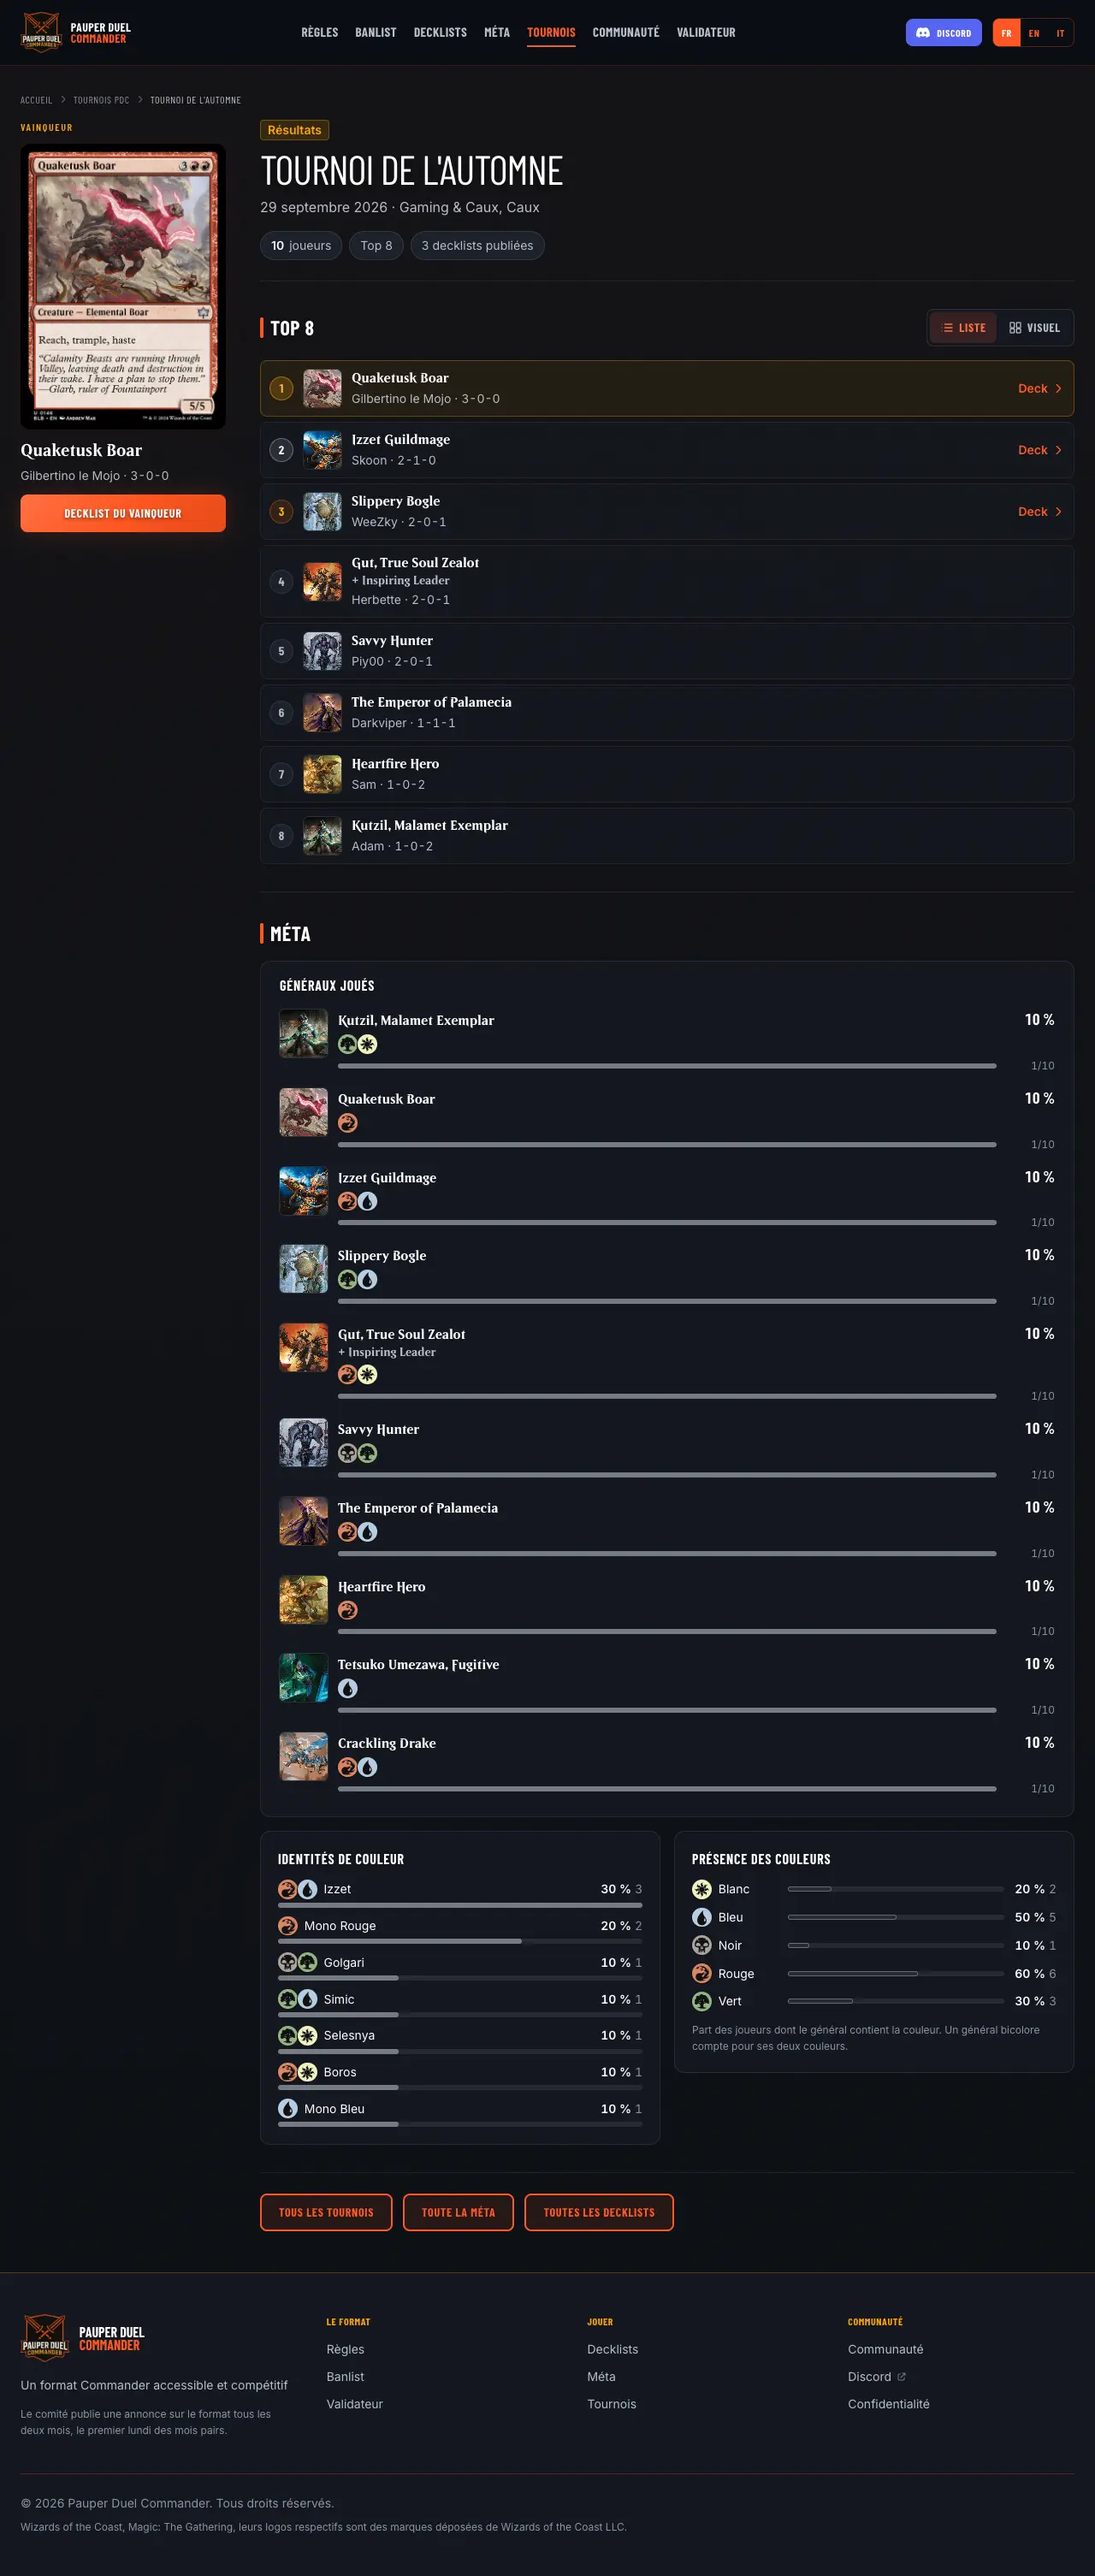
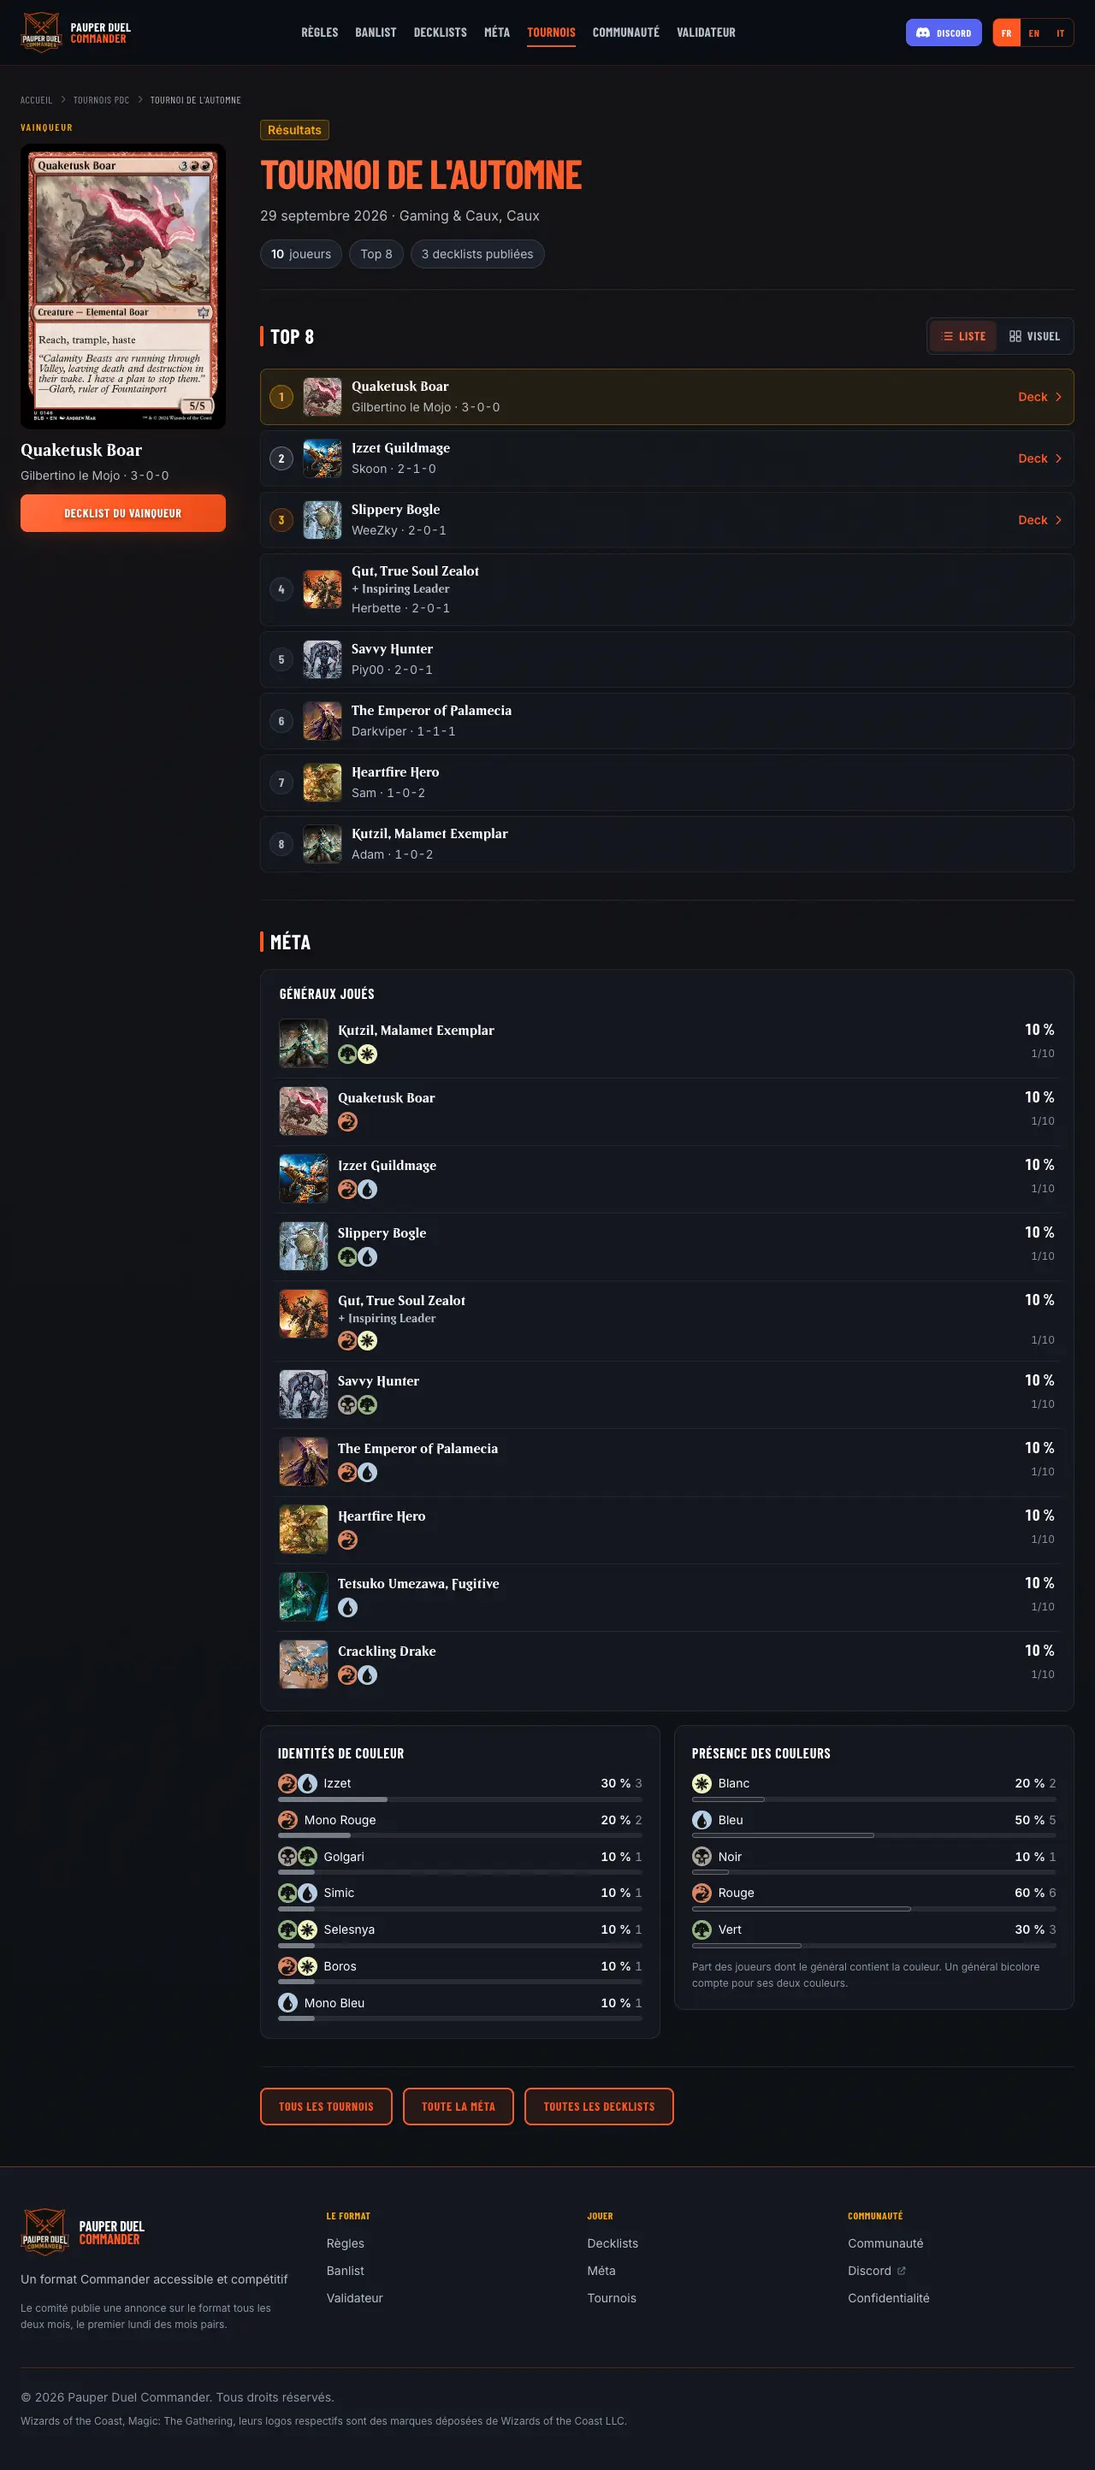
Méta et tournois : titres du site, barres sur une seule échelle
- Le titre des pages méta, tournois et tournoi reprend le style de toutes les
  autres pages (gras, dégradé orange) au lieu d'un blanc maigre.
- Chaque graphique avait sa propre échelle : classement et identités étirés
  jusqu'au plus grand, couleurs sur 100 %. Une part de 6 % dessinait une barre
  pleine à côté d'une couleur à 51 % en demi-barre. Toutes les barres mesurent
  désormais leur part sur 100 %, et les couleurs ont la même ligne que les
  identités, donc la même piste.
- Le classement des généraux perd ses barres (des parts de 1 à 6 % n'y
  dessineraient qu'un trait) et gagne un filet entre les lignes.

diff --git a/site/src/styles/results.css b/site/src/styles/results.css
@@ -86,11 +86,17 @@
   }
 
   .rank-row {
-    @apply flex items-start gap-3 py-2 px-1.5 rounded-lg transition-colors;
+    @apply flex items-start gap-3 py-2.5 px-1.5 transition-colors;
   }
 
   .rank-row:hover {
     @apply bg-white/3;
+  }
+
+  /* Nothing fills a wide row between the name and its share: a rule between
+     rows carries the eye across, as in a table. */
+  .rank-list > li + li > .rank-row {
+    @apply border-t border-white/6;
   }
 
   .rank-row__art {

diff --git a/CLAUDE.md b/CLAUDE.md
@@ -311,9 +311,11 @@ réencodées, pas des sources :
   premier rendu (choix gardé par portée, `pdc:view:<scope>`). Styles dans
   `results.css` : un élément dont l'affichage change avec la vue prend sa mise en
   page de ce fichier, jamais d'un utilitaire `flex`/`grid`, qui l'emporterait.
-- Une barre de part (`share-bar`) se lit à côté de son nombre imprimé, et toutes
-  les pistes d'une liste commencent et finissent au même endroit : sinon deux
-  valeurs égales dessinent deux longueurs différentes.
+- Une barre de part (`share-bar`) mesure sa part sur 100 %, jamais par rapport au
+  plus grand de sa liste, et se lit à côté de son nombre imprimé. Avec une échelle
+  par graphique, 6 % dessinait une barre pleine à côté d'une couleur à 51 % en
+  demi-barre. Le classement des généraux n'a pas de barre : à quelques %, elle
+  n'aurait été qu'un trait.
 - Un contrôle qui ne marche qu'avec JavaScript porte `data-needs-js` : il est
   masqué sans JS (`globals.css`, la classe `js` est posée dans `Base.astro`).
 
